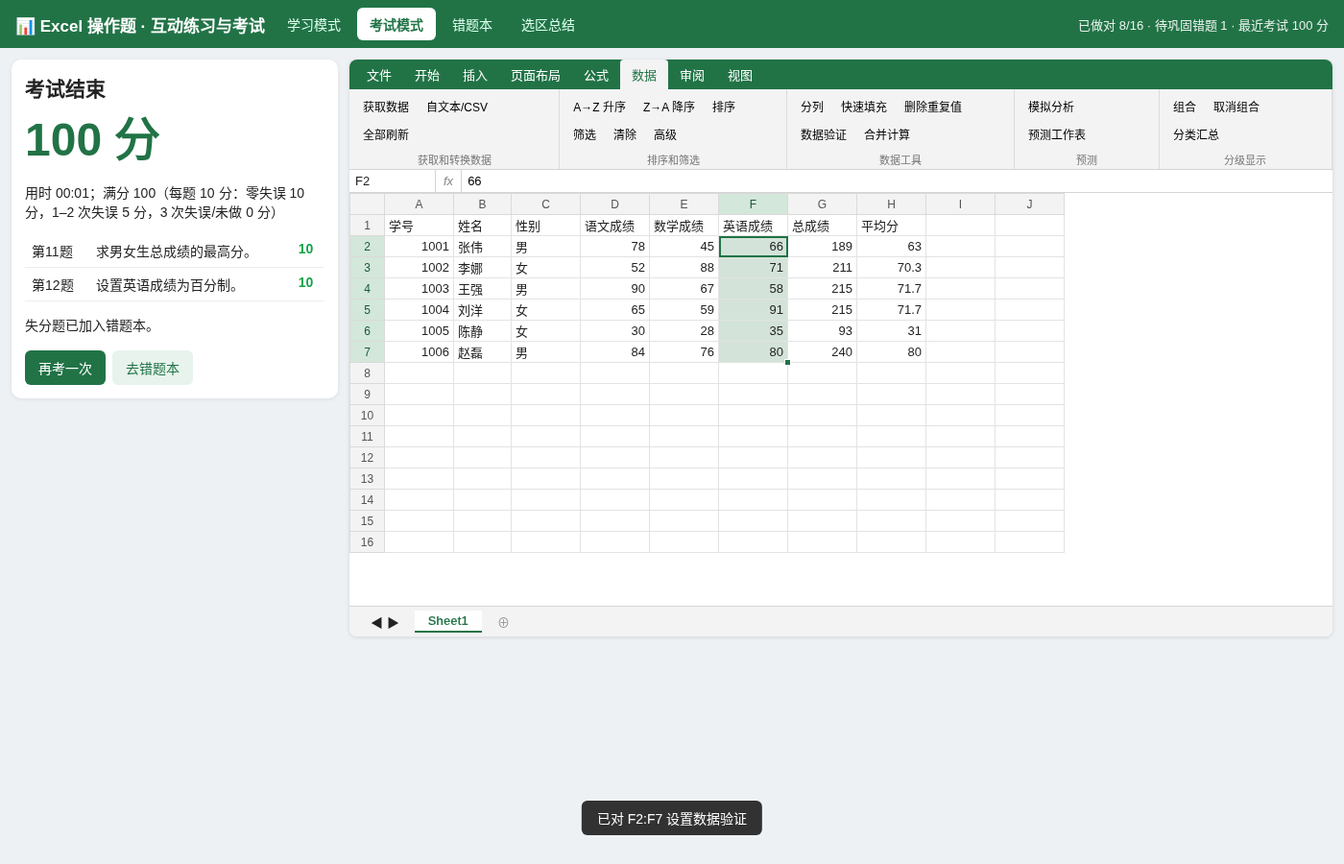
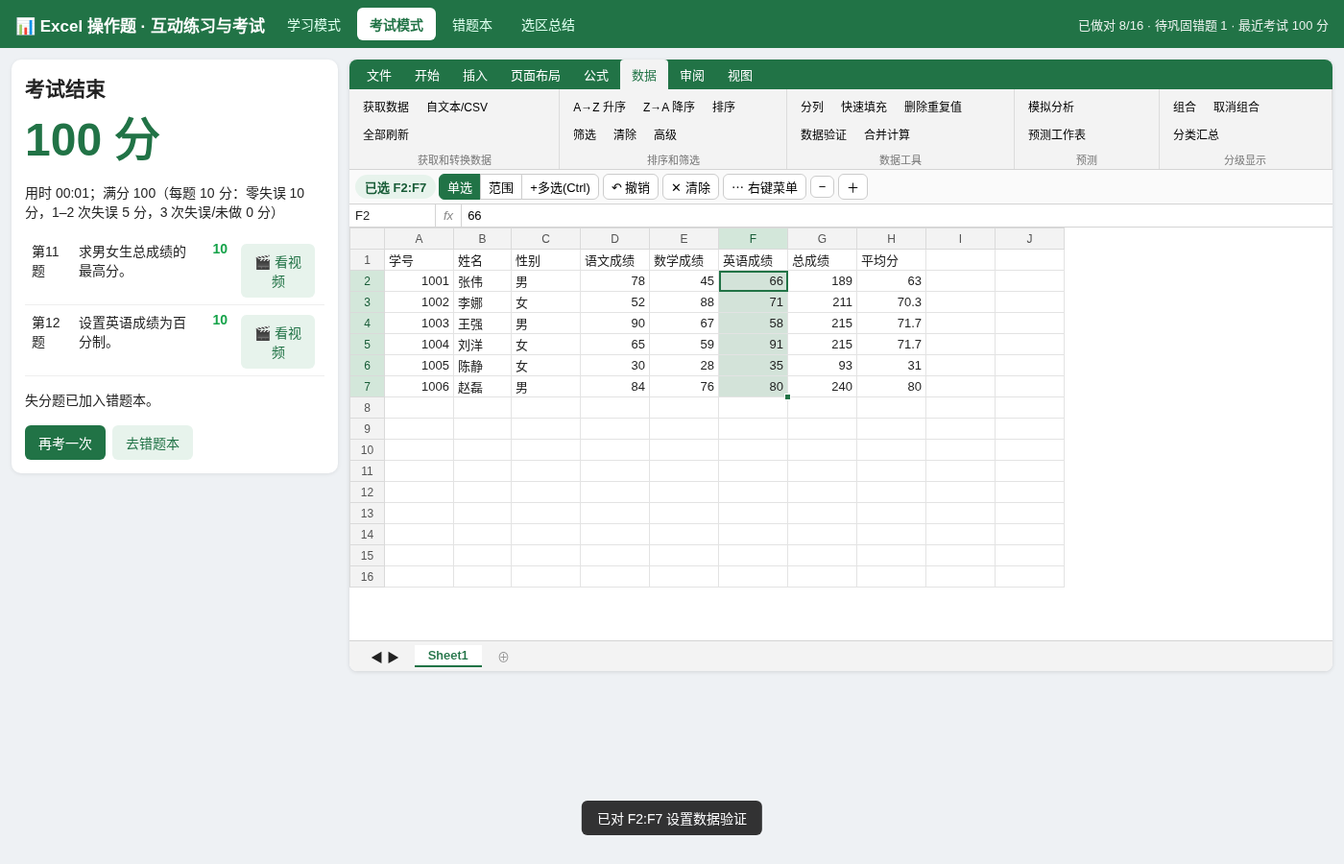
Mobile-friendly UI + per-question explainer videos

diff --git a/index.html b/index.html
@@ -1,4 +1,4 @@
-<!DOCTYPE html><html lang="zh-CN"><head><meta charset="utf-8"><meta name="viewport" content="width=device-width,initial-scale=1">
+<!DOCTYPE html><html lang="zh-CN"><head><meta charset="utf-8"><meta name="viewport" content="width=device-width,initial-scale=1,viewport-fit=cover"><meta name="theme-color" content="#217346"><link rel="manifest" href="manifest.json"><link rel="icon" href="icon-192.png"><link rel="apple-touch-icon" href="icon-192.png"><meta name="apple-mobile-web-app-capable" content="yes"><meta name="mobile-web-app-capable" content="yes"><meta name="apple-mobile-web-app-title" content="Excel操作题">
 <title>Excel 操作题 · 互动练习与考试（第4章）</title>
 <style>
 :root{--g:#217346;--g2:#185c37;--bd:#d4d4d4;--ok:#16a34a;--bad:#dc2626}
@@ -63,18 +63,60 @@ header b{font-size:17px}header nav{display:flex;gap:4px;flex-wrap:wrap}
 table.t{border-collapse:collapse;width:100%}table.t td,table.t th{border-bottom:1px solid #eee;padding:7px;text-align:left;vertical-align:top}
 .opt{display:block;width:100%;text-align:left;padding:10px;margin:6px 0;border:2px solid #e2e2e2;background:#fff;border-radius:8px;cursor:pointer;font-size:14px}.opt.ok{border-color:var(--ok);background:#effaf3}.opt.bad{border-color:var(--bad);background:#fdecec}
 .big{font-size:48px;font-weight:800;color:var(--g)}
+
+#grid tr:first-child th{position:sticky;top:0;z-index:2}#grid th[data-row]{position:sticky;left:0;z-index:1}#grid th.corner{position:sticky;left:0;top:0;z-index:3}
+#gw{overscroll-behavior:contain;-webkit-overflow-scrolling:touch}#gw.tsel{touch-action:none}#fh{touch-action:none}
+#grid{zoom:var(--z,1)}body{-webkit-touch-callout:none;touch-action:manipulation}
+#selbar{display:flex;gap:4px;align-items:center;padding:4px 6px;border-bottom:1px solid var(--bd);background:#fafafa;overflow-x:auto;white-space:nowrap;font-size:13px}
+#selbar button{border:1px solid #ccc;background:#fff;border-radius:6px;padding:3px 8px;font-size:13px;cursor:pointer;flex:none}
+#chip{background:#e7f3ec;color:var(--g2);border-radius:99px;padding:3px 10px;font-weight:700;flex:none}
+.seg{display:inline-flex;flex:none}.seg button{border-radius:0!important;margin-left:-1px}.seg button:first-child{border-radius:6px 0 0 6px!important}.seg button:last-child{border-radius:0 6px 6px 0!important}.seg button.on{background:var(--g);color:#fff;border-color:var(--g)}
+#mbar,.mob{display:none}
+@media(max-width:760px){
+ body{font-size:15px;padding-bottom:calc(118px + env(safe-area-inset-bottom))}
+ header{padding:6px 10px;padding-top:calc(6px + env(safe-area-inset-top));gap:4px;flex-wrap:nowrap;flex-direction:column;align-items:stretch}
+ header b{font-size:15px}header nav{flex-wrap:nowrap;overflow-x:auto}.mt{padding:10px 12px;min-height:44px;flex:none;font-size:15px}
+ #stat{margin:0;font-size:12px}
+ #wrap{padding:6px;gap:6px;padding-left:max(6px,env(safe-area-inset-left));padding-right:max(6px,env(safe-area-inset-right))}
+ .card{padding:10px}#qtext{font-size:16px;margin:4px 0}.mob{display:inline-block}
+ #qp.col .cx{display:none}
+ .tabs{flex-wrap:nowrap;overflow-x:auto;padding:0}.tabs span{padding:12px 14px;min-height:44px;flex:none;font-size:14px;white-space:nowrap}
+ #ribbon{min-height:0}.grp .bs{flex-wrap:nowrap;max-width:none}.rb{min-height:44px;min-width:44px;font-size:14px;padding:6px 10px}
+ #selbar button{min-height:40px;min-width:40px;font-size:14px}#chip{font-size:14px;padding:8px 10px}
+ #gw{height:46vh}#grid td,#grid th{height:30px;font-size:14px}.farrow{width:22px;height:22px;line-height:20px;font-size:11px;top:3px}
+ #fh{width:18px;height:18px;margin:-6px 0 0 -6px;border-radius:50%;border:2px solid #fff;box-shadow:0 0 3px #000}
+ #chart{left:10px;top:150px;transform:scale(.9);transform-origin:0 0}
+ .fx input,.sheets input,.db input,.db select{font-size:16px!important}.sheets span{padding:10px 14px}
+ .menu{left:0!important;right:0;top:auto!important;bottom:0;width:100%;min-width:0;max-height:62vh;border-radius:14px 14px 0 0;padding-bottom:env(safe-area-inset-bottom);font-size:15px;box-shadow:0 -4px 20px rgba(0,0,0,.25)}
+ .menu .mi{min-height:44px;padding:10px 16px}.menu.grid{grid-template-columns:repeat(5,1fr);max-width:none}.menu.grid .mi i{width:100%}
+ #ov{align-items:flex-end;background:rgba(0,0,0,.3)}
+ .dlg{min-width:0;width:100%;max-width:100%;border-radius:14px 14px 0 0;max-height:88vh;overflow:auto;padding-bottom:env(safe-area-inset-bottom);font-size:15px}
+ .dt{padding:14px;font-size:16px}.dt span{padding:0 8px;font-size:20px}.db input[type=text],.db select{width:100%;min-height:42px}
+ .db label{display:block;min-height:36px;line-height:36px}.db input[type=checkbox]{width:20px;height:20px;vertical-align:middle}
+ .df{display:flex;gap:8px}.df button{flex:1;min-height:46px;margin:0;font-size:16px}.srow{flex-wrap:wrap;gap:4px}.srow span{width:auto!important}
+ .dtabs{overflow-x:auto}.dtabs span{padding:10px 12px;flex:none}.sw{width:36px;height:36px}
+ #qlist button{width:40px;height:40px}.btn{min-height:44px}.opt{min-height:48px}
+ #mbar{display:block;position:fixed;left:0;right:0;bottom:0;background:#fff;border-top:1px solid #ccc;box-shadow:0 -2px 10px rgba(0,0,0,.12);z-index:80;padding:6px 8px calc(6px + env(safe-area-inset-bottom))}
+ #mfb{font-size:13px;line-height:1.5;max-height:64px;overflow:auto;padding:4px 6px;border-radius:6px;background:#fff8e6}#mfb.ok{background:#effaf3;color:#14532d}#mfb.bad{background:#fdecec;color:#7f1d1d}
+ .mbb{display:flex;gap:6px;margin-top:6px}.mbb .btn{flex:1;margin:0}.mbb .red{background:#b91c1c}
+ #toast{bottom:140px}
+}
+#vov{position:fixed;inset:0;background:rgba(0,0,0,.6);display:none;align-items:center;justify-content:center;z-index:150;padding:env(safe-area-inset-top) 8px env(safe-area-inset-bottom)}
+#vov .vb{background:#fff;border-radius:12px;max-width:760px;width:100%;padding:12px;max-height:96vh;overflow:auto}#vov video{width:100%;max-height:62vh;background:#000;border-radius:8px}
+#vov h3{margin:0 0 4px;font-size:16px}#vov .vt{font-size:13px;color:#666;margin-bottom:8px}#vov .vbtn{display:flex;gap:8px;margin-top:8px}#vov .vbtn .btn{flex:1;min-height:46px;margin:0}
+#selbar button.on{background:#217346!important;color:#fff!important;border-color:#217346}
 </style></head><body>
 <header><b>📊 Excel 操作题 · 互动练习与考试</b><nav><button class="mt" data-m="learn">学习模式</button><button class="mt" data-m="exam">考试模式</button><button class="mt" data-m="wrong">错题本</button><button class="mt" data-m="area">选区总结</button></nav><span id="stat"></span></header>
 <div id="wrap">
 <div><div class="card" id="qp"></div></div>
 <div id="xl">
  <div class="tabs" id="tabs"></div><div id="ribbon"></div>
- <div class="fx"><div id="nb">A1</div><i>fx</i><input id="fxi" placeholder="在此输入内容或公式，按 Enter 确认"></div>
+ <div id="selbar"><span id="chip">已选 A1</span><span class="seg"><button data-sm="single" class="on">单选</button><button data-sm="range">范围</button><button data-sm="multi">+多选(Ctrl)</button></span><button id="sundo" title="撤销选区">↶ 撤销</button><button id="sclr" title="清除选区">✕ 清除</button><button id="ctxb">⋯ 右键菜单</button><button id="zo">−</button><button id="zi">＋</button></div><div class="fx"><div id="nb">A1</div><i>fx</i><input id="fxi" placeholder="在此输入内容或公式，按 Enter 确认"></div>
  <div id="gw"><table id="grid"></table><div id="fh"></div><div id="chart" style="display:none"></div></div>
  <div class="sheets"><span>◀ ▶</span><span class="on" id="stab">Sheet1</span><span style="color:#999">⊕</span></div>
 </div></div>
 <div id="view2"></div>
-<div id="ov"></div><div id="toast"></div>
+<div id="vov"></div><div id="mbar"></div><div id="ov"></div><div id="toast"></div>
 <script>
 /* ===== 基础 ===== */
 const COLS='ABCDEFGHIJ'.split(''),NC=10,NR=16;const L=c=>COLS[c-1],AD=(r,c)=>L(c)+r;
@@ -136,12 +178,18 @@ const QS=[
 {id:16,k:'4.6 迷你图',q:'设置迷你图颜色为紫色。',a:'选中 G1:G7，单击迷你图工具-迷你图选项卡，设置迷你图颜色为紫色。',sheet:()=>{const s=base({noG:1,g1:'迷你图'});for(let r=2;r<=7;r++)s.sparks[r+',7']={src:r,color:'#376092'};return s},
  paths:[[{c:'sparkColor',need:['G1:G7','G2:G7'],v:'紫色',t:'选中 G2:G7（含迷你图的单元格）→ 迷你图选项卡 → 迷你图颜色 ▾ → 紫色'}]]}];
 function sortChk(v,want){if(!v.hdr)return '数据包含列标题，应勾选「数据包含标题」';for(let i=0;i<want.length;i++){const k=v.keys[i],w=want[i],nm=i?'次要关键字':'主要关键字';if(!k||k[0]!=w[0])return `${nm}应为「${w[0]}」`;if(k[1]!=w[1])return `${nm}「${w[0]}」的次序应为「${w[1]}」`}if(v.keys.length>want.length)return '条件多了，删除多余的次要关键字';return 0}
+/* ===== 讲解视频（链接 zsb-excel-videos 站点，不复制文件） ===== */
+const VBASE='https://bernardshilohjazlene4049-crypto.github.io/zsb-excel-videos/videos/';
+const VID={1:['q05','重命名工作表'],2:['q14','单元格颜色（填充颜色）'],3:['q12','设置单元格格式（通用题型，含合并后居中）'],4:['q15','行高 / 列宽'],5:['q17','套用表格格式'],6:['q16','单元格样式'],7:['q18','条件格式'],8:['q20','输入公式或函数并填充'],9:['q21','单字段或多字段排序'],10:['q22','自动筛选'],11:['q23','分类汇总（第 1 步排序，第 2 步汇总）'],12:['q24','数据验证'],13:['q25','插入图表'],14:['q26','修饰图表'],15:['q27','插入迷你图'],16:['q28','修饰迷你图']};
+function showVideo(id,pre){const o=$('#vov'),v=VID[id],q=QS[id-1];
+ o.innerHTML=`<div class="vb"><h3>🎬 先看讲解 · 第 ${id} 题</h3><div class="vt">${q.q}<br>视频：${v?v[1]+'（'+v[0]+'）':''}</div>${v?`<video id="vid" controls playsinline webkit-playsinline preload="metadata" src="${VBASE+v[0]}.mp4"></video>`:'<p style="padding:30px;text-align:center;color:#888">暂无视频</p>'}<div class="vbtn"><button class="btn" id="vgo">${pre?'我看完了，去操作 →':'关闭视频'}</button></div></div>`;
+ o.style.display='flex';const close=()=>{const vd=$('#vid');if(vd)vd.pause();o.style.display='none';o.innerHTML='';if(pre)toast('开始操作：'+q.q)};$('#vgo').onclick=close;const vd=$('#vid');if(vd){vd.onended=close;vd.onerror=()=>{const t=o.querySelector('.vt');if(t)t.innerHTML+='<br><span style="color:#dc2626">视频加载失败，可直接去操作。</span>'}}}
 /* ===== 进度 ===== */
 const KEY='xlops_v1';let PG=JSON.parse(localStorage.getItem(KEY)||'null')||{done:{},wrong:{},exams:[],area:{}};
 const save=()=>{localStorage.setItem(KEY,JSON.stringify(PG));stat()};
 function stat(){const w=Object.values(PG.wrong).filter(x=>!x.m).length;$('#stat').textContent=`已做对 ${Object.keys(PG.done).length}/16 · 待巩固错题 ${w}`+(PG.exams.length?` · 最近考试 ${PG.exams[PG.exams.length-1].s} 分`:'')}
 /* ===== 判题引擎 ===== */
-function startQ(id){const q=QS[id-1];S=q.sheet?q.sheet():base();sel=[{r1:1,c1:1,r2:1,c2:1}];E={q,paths:q.paths.map(s=>({s,i:0,alive:true})),mist:0,done:false,gave:false,fail:false};curTab='开始';closeAll();$('#stab').textContent='';renderAll();renderQ()}
+function startQ(id){if((mode=='learn'||mode=='wrong')&&!localStorage.getItem('xlops_novid'))setTimeout(()=>showVideo(id,true),0);$('#qp').classList.add('col');tapA=null;selHist=[];const q=QS[id-1];S=q.sheet?q.sheet():base();sel=[{r1:1,c1:1,r2:1,c2:1}];E={q,paths:q.paths.map(s=>({s,i:0,alive:true})),mist:0,done:false,gave:false,fail:false};curTab='开始';closeAll();$('#stab').textContent='';renderAll();renderQ()}
 function act(a){if(!E||E.done)return false;const s=selStr();let selErr=null,valErr=null;const ok=[];
  for(const p of E.paths){if(!p.alive)continue;const st=p.s[p.i];if(st.c!==a.c)continue;
   if(st.need&&!st.need.includes(s)){selErr=selErr||st;continue}
@@ -156,7 +204,7 @@ function act(a){if(!E||E.done)return false;const s=selStr();let selErr=null,valE
 function rewind(){if(!E||E.done)return;E.paths.forEach(p=>{if(p.alive&&p.i>0)p.i--});renderQ(true)}
 function hintStep(){const p=E.paths.find(p=>p.alive);return p&&p.s[p.i]}
 function run(c,v){if(!act({c,v}))return false;H[c]&&H[c](v);renderAll();return true}
-function fb(cls,t){const e=$('#fb');if(!e)return;e.className=cls;e.innerHTML=t}
+function fb(cls,t){const e=$('#fb');if(!e)return;e.className=cls;e.innerHTML=t;mbar()}
 /* ===== 会话：学习/考试/错题本 ===== */
 function startSession(m,list){mode=m;clearInterval(window._ti);SS={mode:m,list:[...list],pend:[],res:[],n:0,total:list.length,t0:Date.now()};
  if(m=='exam'){SS.end=Date.now()+20*60e3;window._ti=setInterval(()=>{const r=SS.end-Date.now();const t=$('#timer');if(t)t.textContent=fmtT(r);if(r<=0)endSession()},500)}nextQ()}
@@ -170,10 +218,10 @@ function finishQ(gave){const id=E.q.id,ok=!E.fail&&!E.gave&&E.mist==0;
  else{if(ok){PG.done[id]=1;if(PG.wrong[id]&&(SS.mode=='wrong'||SS.cur.re))PG.wrong[id].m=true}
   else{PG.wrong[id]={cnt:((PG.wrong[id]||{}).cnt||0)+1,m:false};SS.pend.push({id,w:3})}save()}
  E.done=true;renderQ();showAns(ok)}
-function showAns(ok){const a=$('#ans');if(!a)return;a.style.display='block';a.innerHTML=`<b>${ok?'🎉 一次做对！':(SS.mode=='exam'?'本题已记录':'已加入错题本，过 3 题后会再考你')}</b><br><b>📘 标准答案（讲义原文）：</b>${E.q.a}${E.q.note?`<br><b>📝 注：</b>${E.q.note}`:''}`;$('#nextb').disabled=false;$('#nextb').textContent=SS.mode=='exam'?'下一题 →':'下一题 →'}
-function endSession(){clearInterval(window._ti);if(SS.mode=='exam'){if(SS.cur&&E&&!E.done)recordExam(0);SS.list.forEach(id=>SS.res.push({id,sc:0,mist:'-',skip:1}));SS.list.forEach(id=>{PG.wrong[id]={cnt:((PG.wrong[id]||{}).cnt||0)+1,m:false}});SS.list=[];
+function showAns(ok){const a=$('#ans');if(!a)return;$('#qp').classList.remove('col');a.style.display='block';a.innerHTML=`<b>${ok?'🎉 一次做对！':(SS.mode=='exam'?'本题已记录':'已加入错题本，过 3 题后会再考你')}</b><br><b>📘 标准答案（讲义原文）：</b>${E.q.a}${E.q.note?`<br><b>📝 注：</b>${E.q.note}`:''}<br><button class="btn gh" id="vre">🎬 看视频（重看讲解）</button>`;$('#vre').onclick=()=>showVideo(E?E.q.id:SS.cur.id,false);$('#nextb').disabled=false;$('#nextb').textContent='下一题 →';mbar()}
+function endSession(){clearInterval(window._ti);setTimeout(mbar,0);if(SS.mode=='exam'){if(SS.cur&&E&&!E.done)recordExam(0);SS.list.forEach(id=>SS.res.push({id,sc:0,mist:'-',skip:1}));SS.list.forEach(id=>{PG.wrong[id]={cnt:((PG.wrong[id]||{}).cnt||0)+1,m:false}});SS.list=[];
  const tot=Math.round(SS.res.reduce((a,b)=>a+b.sc,0)/(SS.total*10)*100);PG.exams.push({s:tot,t:Date.now()});save();E=null;
- $('#qp').innerHTML=`<h2 style="margin:0">考试结束</h2><div class="big">${tot} 分</div><p class="tip">用时 ${fmtT(Date.now()-SS.t0)}；满分 100（每题 10 分：零失误 10 分，1–2 次失误 5 分，3 次失误/未做 0 分）</p><table class="t">${SS.res.map(r=>`<tr><td>第${r.id}题</td><td>${QS[r.id-1].q}</td><td><b style="color:${r.sc==10?'#16a34a':r.sc?'#a16207':'#dc2626'}">${r.sc}</b></td></tr>`).join('')}</table><p>失分题已加入错题本。</p><button class="btn" id="again">再考一次</button> <button class="btn gh" onclick="setMode('wrong')">去错题本</button>`;$('#again').onclick=()=>setMode('exam');return}
+ $('#qp').innerHTML=`<h2 style="margin:0">考试结束</h2><div class="big">${tot} 分</div><p class="tip">用时 ${fmtT(Date.now()-SS.t0)}；满分 100（每题 10 分：零失误 10 分，1–2 次失误 5 分，3 次失误/未做 0 分）</p><table class="t">${SS.res.map(r=>`<tr><td>第${r.id}题</td><td>${QS[r.id-1].q}</td><td><b style="color:${r.sc==10?'#16a34a':r.sc?'#a16207':'#dc2626'}">${r.sc}</b></td><td><button class="btn gh" onclick="showVideo(${r.id},false)">🎬 看视频</button></td></tr>`).join('')}</table><p>失分题已加入错题本。</p><button class="btn" id="again">再考一次</button> <button class="btn gh" onclick="setMode('wrong')">去错题本</button>`;$('#again').onclick=()=>setMode('exam');return}
  $('#qp').innerHTML=`<h3>✅ 本轮完成</h3><p>${SS.mode=='wrong'?'错题都已重做正确！':'16 道题都练完了，错的题也已重做正确。'}</p><button class="btn" onclick="setMode('exam')">去考试</button> <button class="btn gh" onclick="setMode('learn')">再练一遍</button>`;E=null}
 /* ===== 左侧题目面板 ===== */
 function renderQ(partial){if(!E)return;const q=E.q,learn=mode!='exam';
@@ -181,11 +229,12 @@ function renderQ(partial){if(!E)return;const q=E.q,learn=mode!='exam';
  const qlist=learn&&SS.mode=='learn'?`<div id="qlist">${QS.map(x=>`<button class="${PG.done[x.id]?'d':''} ${PG.wrong[x.id]&&!PG.wrong[x.id].m?'w':''} ${x.id==q.id?'c':''}" data-j="${x.id}">${x.id}</button>`).join('')}</div><div class="tip" style="font-size:12px;color:#888">绿=做对过 红=待巩固 · 点数字可跳题</div>`:'';
  $('#qp').innerHTML=`<div style="display:flex;justify-content:space-between;align-items:center"><span><span class="tag">${{learn:'学习模式',exam:'考试模式',wrong:'错题本重练'}[mode]}</span>${SS.cur&&SS.cur.re?'<span class="tag r">🔁 错题重考</span>':''}</span>${mode=='exam'?`<span id="timer">${fmtT(SS.end-Date.now())}</span>`:''}</div>
  <div style="font-size:12px;color:#888;margin-top:6px">${mode=='exam'?`第 ${SS.n} / ${SS.total} 题`:`第 ${q.id} 题`} · <span class="tag y">${q.k}</span></div>
- <div id="qtext">${q.id}. ${q.q}</div>
+ <div id="qtext">${q.id}. ${q.q} <button class="btn gh mob" id="qtog" style="min-height:32px;padding:2px 10px;font-size:13px">详情</button></div><div class="cx">
  ${learn?`<div style="font-size:13px;font-weight:600">操作步骤提示</div><ul class="steps" id="steps">${stepsHTML()}</ul>`:'<div class="tip" style="font-size:12px;color:#888">考试模式：无提示，按真实 Excel 操作。失误 3 次本题判 0 分。</div>'}
  <div id="fb"></div>
- <div><button class="btn gh" id="redo">↺ 重做本题</button>${learn?'<button class="btn gh" id="give">看答案</button>':''}<button class="btn" id="nextb" ${mode=='exam'?'':'disabled'}>${mode=='exam'?'跳过 →':'下一题 →'}</button>${mode=='exam'?'<button class="btn" style="background:#b91c1c" id="sub">交卷</button>':''}</div>
- <div id="ans"></div>${qlist}<div style="font-size:12px;color:#888;margin-top:10px;line-height:1.6">操作说明：拖动鼠标选区，Ctrl+拖动可多选；右键单元格/行号/列标/工作表标签弹出菜单；选中单元格后直接键入内容按 Enter。</div>`;
+ <div><button class="btn gh" id="redo">↺ 重做本题</button><button class="btn gh" id="vwatch">🎬 看视频</button>${learn?'<button class="btn gh" id="give">看答案</button>':''}<button class="btn" id="nextb" ${mode=='exam'?'':'disabled'}>${mode=='exam'?'跳过 →':'下一题 →'}</button>${mode=='exam'?'<button class="btn" style="background:#b91c1c" id="sub">交卷</button>':''}</div>
+ <div id="ans"></div>${qlist}<div style="font-size:12px;color:#888;margin-top:10px;line-height:1.6">操作说明：拖动鼠标选区，Ctrl+拖动可多选；右键单元格/行号/列标/工作表标签弹出菜单；选中单元格后直接键入内容按 Enter。<br>📱 手机：选「范围」后点起点再点终点（或直接拖动）；「+多选」相当于按住 Ctrl；长按或点「⋯ 右键菜单」代替右键。</div></div>`;
+ $('#vwatch').onclick=()=>showVideo(q.id,false);mbar();$('#qtog').onclick=()=>$('#qp').classList.toggle('col');
  $('#redo').onclick=()=>{if(mode=='exam'&&E.done)return;const m=E.mist;startQ(q.id);E.mist=m};
  if($('#give'))$('#give').onclick=()=>{if(E.done)return;E.gave=true;E.done=true;finishQ(true)};
  $('#nextb').onclick=()=>{if(mode!='exam'&&!E.done)return;nextQ()};
@@ -228,12 +277,12 @@ const MENUS={fillColor:()=>[{hd:'标准色'},...cl('fillColor')],fontColor:()=>c
 const tsw=(i,d)=>['#9bc2e6','#f4b084','#c9c9c9','#ffd966','#8ea9db','#a9d08e'][(i-1)%6]+(d?'':'');
 const acc=(i,p)=>({1:['#d9e1f2','#b4c6e7','#8ea9db'],2:['#fce4d6','#f8cbad','#f4b084'],3:['#ededed','#dbdbdb','#c9c9c9'],4:['#fff2cc','#ffe699','#ffd966'],5:['#ddebf7','#bdd7ee','#9bc2e6'],6:['#e2efda','#c6e0b4','#a9d08e']})[i][p/20-1];
 function closeAll(lv=0){document.querySelectorAll('.menu').forEach(e=>{if(+e.dataset.l>=lv)e.remove()})}
-function menu(x0,y0,items,lv=0,grid){closeAll(lv);const mm=document.createElement('div');mm.className='menu'+(grid?' grid':'');mm.dataset.l=lv;
+function menu(x0,y0,items,lv=0,grid){closeAll(lv);const mm=document.createElement('div');mm.className='menu'+(grid?' grid':'');mm.dataset.l=lv;mm.style.zIndex=100+lv;if(lv>0&&MOB()){const bk=document.createElement('div');bk.className='mi';bk.textContent='‹ 返回';bk.style.color='#217346';bk.onclick=()=>closeAll(lv);mm.appendChild(bk)}
  items.forEach(it=>{const d=document.createElement('div');if(it.sep){d.className='sep'}else if(it.hd){d.className='hd';d.textContent=it.hd}else{d.className='mi';d.innerHTML=(it.sw!==undefined?`<i style="background:${it.sw}"></i>`:'')+(grid&&it.g?'':esc(it.t))+(it.sub?' <span style="margin-left:auto">▸</span>':'');d.title=it.t;d.dataset.t=it.t;
   const open=()=>{const r=d.getBoundingClientRect();menu(r.right,r.top,it.sub,lv+1)};
-  if(it.sub){d.onmouseenter=open;d.onclick=open}else{d.onmouseenter=()=>closeAll(lv+1);d.onclick=()=>{closeAll();it.fn?it.fn():run(it.cmd,it.v)}}}mm.appendChild(d)});
+  const HV=matchMedia('(hover:hover)').matches&&!MOB();if(it.sub){if(HV)d.onmouseenter=open;d.onclick=e=>{e.stopPropagation();open()}}else{if(HV)d.onmouseenter=()=>closeAll(lv+1);d.onclick=()=>{closeAll();it.fn?it.fn():run(it.cmd,it.v)}}}mm.appendChild(d)});
  document.body.appendChild(mm);const r=mm.getBoundingClientRect();mm.style.left=Math.max(0,Math.min(x0,innerWidth-r.width-4))+'px';mm.style.top=Math.max(0,Math.min(y0,innerHeight-r.height-4))+'px'}
-document.addEventListener('mousedown',e=>{if(!e.target.closest('.menu')&&!e.target.closest('[data-menu]'))closeAll()});
+let lpAt=0,lpUp=0;const lpG=()=>lpAt&&lpUp>=lpAt&&Date.now()-lpUp<500;document.addEventListener('pointerup',()=>{if(lpAt&&lpUp<lpAt)lpUp=Date.now()},true);document.addEventListener('click',e=>{if(lpG()){lpAt=0;e.stopPropagation();e.preventDefault()}},true);document.addEventListener('mousedown',e=>{if(lpG())return;if(!e.target.closest('.menu')&&!e.target.closest('[data-menu]')&&!e.target.closest('.farrow')&&!e.target.closest('#ctxb'))closeAll()});
 /* ===== 对话框 ===== */
 let dlgFree=false;
 function dlg(title,html,onok,free){dlgFree=!!free;const o=$('#ov');o.innerHTML=`<div class="dlg"><div class="dt">${title}<span id="dx">×</span></div><div class="db">${html}</div><div class="df"><button id="dok">确定</button><button id="dcc">取消</button></div></div>`;o.style.display='flex';
@@ -308,7 +357,7 @@ function renderGrid(){let h='<colgroup><col style="width:36px">';for(let c=1;c<=
    let inner=esc(v);const sp=S.sparks[r+','+c];if(sp){const d=[4,5,6].map(cc=>+val(sp.src,cc)||0),mx=Math.max(...d,1);inner=`<svg width="100%" height="18" viewBox="0 0 60 18" preserveAspectRatio="none">${d.map((q,i)=>`<rect x="${6+i*18}" y="${18-q/mx*16}" width="12" height="${q/mx*16}" fill="${sp.color}"/>`).join('')}</svg>`}
    const fa=S.filter&&r==S.filter.a.r1&&c>=S.filter.a.c1&&c<=S.filter.a.c2?`<span class="farrow ${S.filter.conds[c]?'on':''}" data-fc="${c}">${S.filter.conds[c]?'⧩':'▼'}</span>`:'';
    h+=`<td data-r="${r}" data-c="${c}"${m?` colspan="${m.c2-m.c1+1}"`:''} class="${inSel(r,c)?'sel':''} ${sel[sel.length-1].r1==r&&sel[sel.length-1].c1==c?'act':''}" style="${st}">${inner}${fa}</td>`}h+='</tr>'}
- $('#grid').innerHTML=h;if(!$('#rn'))$('#stab').textContent=S.name;const a=sel[sel.length-1];$('#nb').textContent=AD(Math.min(a.r1,a.r2),Math.min(a.c1,a.c2));const cx=S.cells[Math.min(a.r1,a.r2)+','+Math.min(a.c1,a.c2)];if(document.activeElement!=$('#fxi'))$('#fxi').value=cx?(cx.f||cx.v):'';
+ $('#grid').innerHTML=h;if(!$('#rn'))$('#stab').textContent=S.name;$('#chip').textContent='已选 '+selStr()+(tapA?' · 再点终点':'');const a=sel[sel.length-1];$('#nb').textContent=AD(Math.min(a.r1,a.r2),Math.min(a.c1,a.c2));const cx=S.cells[Math.min(a.r1,a.r2)+','+Math.min(a.c1,a.c2)];if(document.activeElement!=$('#fxi'))$('#fxi').value=cx?(cx.f||cx.v):'';
  const la=norm(sel[sel.length-1]);const td=document.querySelector(`#grid td[data-r="${la.r2}"][data-c="${la.c2}"]`);const fh=$('#fh');if(td&&!la.row&&!la.col){const gw=$('#gw').getBoundingClientRect(),tr=td.getBoundingClientRect();fh.style.display='block';fh.style.left=(tr.right-gw.left+$('#gw').scrollLeft-4)+'px';fh.style.top=(tr.bottom-gw.top+$('#gw').scrollTop-4)+'px'}else fh.style.display='none';
  renderChart()}
 function renderChart(){const ch=$('#chart');if(!S.chart){ch.style.display='none';return}ch.style.display='block';ch.classList.toggle('on',!!S.chart.sel);const{labels,vals,type,lab}=S.chart;const tot=vals.reduce((a,b)=>a+b,0)||1;const pal=['#4472c4','#ed7d31','#a5a5a5','#ffc000','#5b9bd5','#70ad47'];
@@ -318,18 +367,45 @@ function renderChart(){const ch=$('#chart');if(!S.chart){ch.style.display='none'
   top+=`<path d="M${cx},${cy}L${p(a0)}A${rx},${ry} 0 ${lg} 1 ${p(a1)}Z" fill="${pal[i%6]}" stroke="#fff"/>`;
   if(lab&&lab!='无'){const am=(a0+a1)/2,k=lab=='数据标签外'?1.15:lab=='居中'?0.6:0.8;lb+=`<text x="${cx+rx*k*Math.cos(am)}" y="${cy+ry*k*Math.sin(am)+4}" font-size="11" text-anchor="middle" fill="${lab=='数据标签外'?'#333':'#fff'}" font-weight="700">${v}</text>`}a0=a1});
  ch.innerHTML=`<svg width="330" height="240"><text x="165" y="20" text-anchor="middle" font-size="14">总成绩</text>${s}${top}${lb}${labels.map((l,i)=>`<rect x="245" y="${50+i*20}" width="10" height="10" fill="${pal[i%6]}"/><text x="260" y="${59+i*20}" font-size="11">${esc(l)}</text>`).join('')}</svg>`}
-function renderAll(){renderGrid();renderRibbon()}
-$('#chart').onmousedown=e=>{e.stopPropagation();S.chart.sel=true;curTab='图表设计';renderAll()};
+function renderAll(){renderGrid();renderRibbon();mbar()}
+$('#chart').onpointerdown=e=>{e.stopPropagation();S.chart.sel=true;curTab='图表设计';renderAll()};
 /* ===== 鼠标：选区 / 填充柄 / 右键 ===== */
 let drag=null,fdrag=null;
 const cellOf=e=>{const td=e.target.closest('#grid td');return td?{r:+td.dataset.r,c:+td.dataset.c}:null};
-$('#grid').addEventListener('mousedown',e=>{if(e.button!==0)return;if(e.target.classList.contains('farrow')){e.stopPropagation();const r=e.target.getBoundingClientRect();filterPop(+e.target.dataset.fc,r.left,r.bottom);return}
- if(S.chart)S.chart.sel=false;const th=e.target.closest('th');let a;
- if(th&&th.dataset.row){const r=+th.dataset.row;a={r1:r,r2:r,c1:1,c2:NC,row:true}}else if(th&&th.dataset.col){const c=+th.dataset.col;a={r1:1,r2:NR,c1:c,c2:c,col:true}}else{const p=cellOf(e);if(!p)return;a={r1:p.r,c1:p.c,r2:p.r,c2:p.c};drag=true}
- sel=e.ctrlKey||e.metaKey?[...sel,a]:[a];renderAll()});
-$('#grid').addEventListener('mouseover',e=>{const p=cellOf(e);if(!p)return;if(drag){const a=sel[sel.length-1];a.r2=p.r;a.c2=p.c;renderGrid()}if(fdrag){fdrag.r=Math.max(fdrag.r0,p.r);document.querySelectorAll('#grid td').forEach(t=>t.style.outline=+t.dataset.c==fdrag.c&&+t.dataset.r>fdrag.r0&&+t.dataset.r<=fdrag.r?'1px dashed #217346':'')}});
-document.addEventListener('mouseup',e=>{if(drag){drag=null;renderAll()}if(fdrag){const f=fdrag;fdrag=null;if(f.r>f.r0)run('fill',`${L(f.c)}${f.r0}:${L(f.c)}${f.r}`);else renderGrid()}});
-$('#fh').addEventListener('mousedown',e=>{e.stopPropagation();e.preventDefault();const a=norm(sel[sel.length-1]);fdrag={c:a.c2,r0:a.r2,r:a.r2}});
+const MOB=()=>matchMedia('(max-width:760px)').matches;
+let smode='single',tapA=null,selHist=[],lp=null,lastCtx=null,moved=false;
+const tdAt=(x,y)=>{const el=document.elementFromPoint(x,y);const td=el&&el.closest&&el.closest('#grid td');return td?{r:+td.dataset.r,c:+td.dataset.c}:null};
+const pushSel=()=>{selHist.push(JSON.stringify(sel));if(selHist.length>30)selHist.shift()};
+function setSM(m){smode=m;tapA=null;document.querySelectorAll('#selbar [data-sm]').forEach(b=>b.classList.toggle('on',b.dataset.sm==m));$('#gw').classList.toggle('tsel',m!='single');renderGrid()}
+document.querySelectorAll('#selbar [data-sm]').forEach(b=>b.onclick=()=>setSM(b.dataset.sm));
+$('#sundo').onclick=()=>{const h=selHist.pop();if(h){sel=JSON.parse(h);tapA=null;renderAll()}else toast('没有可撤销的选区')};
+$('#sclr').onclick=()=>{pushSel();sel=[{r1:1,c1:1,r2:1,c2:1}];tapA=null;renderAll()};
+let zf=1;$('#zo').onclick=()=>{zf=Math.max(.6,zf-.1);$('#grid').style.setProperty('--z',zf);renderGrid()};$('#zi').onclick=()=>{zf=Math.min(1.6,zf+.1);$('#grid').style.setProperty('--z',zf);renderGrid()};
+function fireCtx(el,x,y){el.dispatchEvent(new MouseEvent('contextmenu',{bubbles:true,cancelable:true,clientX:x,clientY:y}))}
+$('#ctxb').onclick=()=>{let el;if(lastCtx&&lastCtx.isConnected)el=lastCtx;else{const a=sel[sel.length-1];el=a.row?document.querySelector(`#grid th[data-row="${a.r1}"]`):a.col?document.querySelector(`#grid th[data-col="${a.c1}"]`):document.querySelector(`#grid td[data-r="${Math.min(a.r1,a.r2)}"][data-c="${Math.min(a.c1,a.c2)}"]`)}if(!el)return;const r=el.getBoundingClientRect();fireCtx(el,r.left+r.width/2,r.top+r.height/2)};
+/* 长按 = 右键 */
+document.addEventListener('pointerdown',e=>{if(e.pointerType=='mouse')return;const t=e.target.closest&&e.target.closest('#grid td,#grid th,#stab');if(!t)return;clearTimeout(lp&&lp.t);const x=e.clientX,y=e.clientY;lp={x,y,t:setTimeout(()=>{lp=null;drag=null;fdrag=null;lpAt=Date.now();const el=document.elementFromPoint(x,y)||t;fireCtx(el.closest('#grid td,#grid th,#stab')||el,x,y);if(navigator.vibrate)navigator.vibrate(20)},550)}},true);
+$('#stab').addEventListener('pointerdown',()=>{lastCtx=$('#stab')});
+$('#grid').addEventListener('click',e=>{if(e.target.classList.contains('farrow')){const r=e.target.getBoundingClientRect();filterPop(+e.target.dataset.fc,r.left,r.bottom)}});
+$('#grid').addEventListener('pointerdown',e=>{if(e.pointerType=='mouse'&&e.button!==0)return;if(e.target.classList.contains('farrow')){e.stopPropagation();return}
+ if(e.target.hasPointerCapture&&e.target.hasPointerCapture(e.pointerId))e.target.releasePointerCapture(e.pointerId);
+ lastCtx=null;if(S.chart)S.chart.sel=false;const th=e.target.closest('th');let a;const touch=e.pointerType!='mouse';const multi=e.ctrlKey||e.metaKey||smode=='multi';pushSel();moved=false;
+ if(th&&th.dataset.row){const r=+th.dataset.row;a={r1:r,r2:r,c1:1,c2:NC,row:true};tapA=null}else if(th&&th.dataset.col){const c=+th.dataset.col;a={r1:1,r2:NR,c1:c,c2:c,col:true};tapA=null}else{const p=cellOf(e);if(!p)return;
+  if(touch&&smode!='single'&&tapA){const la=sel[sel.length-1];la.r2=p.r;la.c2=p.c;tapA=null;selHist.pop();renderAll();return}
+  a={r1:p.r,c1:p.c,r2:p.r,c2:p.c};if(!touch||smode!='single')drag=true;if(touch&&smode!='single')tapA=p}
+ sel=multi&&!(sel.length==1&&sel[0].r1==1&&sel[0].c1==1&&sel[0].r2==1&&sel[0].c2==1&&smode=='multi'&&!e.ctrlKey)?[...sel,a]:[a];if(multi&&sel.length>1&&smode=='multi'&&!e.ctrlKey&&false)sel=[a];renderAll()});
+document.addEventListener('pointermove',e=>{if(lp&&Math.hypot(e.clientX-lp.x,e.clientY-lp.y)>10){clearTimeout(lp.t);lp=null}
+ if(!drag&&!fdrag)return;const p=tdAt(e.clientX,e.clientY);if(!p)return;
+ if(drag){const a=sel[sel.length-1];if(a.r2!=p.r||a.c2!=p.c){a.r2=p.r;a.c2=p.c;moved=true;if(tapA&&(tapA.r!=p.r||tapA.c!=p.c))tapA=null;renderGrid()}}
+ if(fdrag){fdrag.r=Math.max(fdrag.r0,p.r);document.querySelectorAll('#grid td').forEach(t=>t.style.outline=+t.dataset.c==fdrag.c&&+t.dataset.r>fdrag.r0&&+t.dataset.r<=fdrag.r?'1px dashed #217346':'')}});
+const pend=e=>{if(lp){clearTimeout(lp.t);lp=null}if(drag){drag=null;renderAll()}if(fdrag){const f=fdrag;fdrag=null;if(f.r>f.r0)run('fill',`${L(f.c)}${f.r0}:${L(f.c)}${f.r}`);else renderGrid()}};
+document.addEventListener('pointerup',pend);document.addEventListener('pointercancel',e=>{if(lp){clearTimeout(lp.t);lp=null}if(drag){drag=null;renderAll()}if(fdrag){fdrag=null;renderGrid()}});
+$('#fh').addEventListener('pointerdown',e=>{e.stopPropagation();e.preventDefault();if(e.target.hasPointerCapture(e.pointerId))e.target.releasePointerCapture(e.pointerId);const a=norm(sel[sel.length-1]);fdrag={c:a.c2,r0:a.r2,r:a.r2}});
+/* 底部操作条（手机） */
+function mbar(){const b=$('#mbar');if(!b)return;if(!E||mode=='area'||$('#view2').style.display=='block'){b.style.display='none';return}b.style.display='';const f=$('#fb');const st=hintStep();
+ let t=f&&f.innerHTML?f.innerHTML:'';if(!E.done&&mode!='exam'&&st)t+=(t?'<br>':'')+'👉 '+st.t+(st.std?'（讲义未写，按 Excel 标准步骤）':'');if(E.done)t+=(t?'<br>':'')+'本题已结束，标准答案见上方题目卡片。';if(!t)t=mode=='exam'?'考试模式：无提示，按真实 Excel 操作。':'';
+ b.innerHTML=`<div id="mfb" class="${f&&f.innerHTML?f.className:''}">${t}</div><div class="mbb">${mode!='exam'?'<button class="btn gh" data-p="give">看答案</button>':''}<button class="btn gh" data-p="redo">↺ 重做</button><button class="btn" data-p="nextb" ${mode!='exam'&&!E.done?'disabled':''}>${mode=='exam'?(E.done?'下一题 →':'跳过 →'):'下一题 →'}</button>${mode=='exam'?'<button class="btn red" data-p="sub">交卷</button>':''}</div>`;
+ b.querySelectorAll('[data-p]').forEach(x=>x.onclick=()=>{const t=$('#'+x.dataset.p);if(t)t.click()})}
 $('#fh').addEventListener('dblclick',e=>{const a=norm(sel[sel.length-1]);let r=a.r2;while(r<NR&&val(r+1,a.c2-1)!=='')r++;if(r>a.r2)run('fill',`${L(a.c2)}${a.r2}:${L(a.c2)}${r}`)});
 $('#grid').addEventListener('contextmenu',e=>{e.preventDefault();const th=e.target.closest('th');const base=[xi('剪切'),xi('复制'),xi('粘贴选项'),{sep:1}];
  if(th&&th.dataset.row){const r=+th.dataset.row;if(!sel.some(a=>a.row&&inA(a,r,1)))sel=[{r1:r,r2:r,c1:1,c2:NC,row:true}];renderAll();menu(e.clientX,e.clientY,[...base,xi('插入'),xi('删除'),xi('清除内容'),{sep:1},{t:'设置单元格格式...',cmd:'ctx.format'},{t:'行高...',cmd:'ctx.rowh'},xi('隐藏'),xi('取消隐藏')]);return}
@@ -363,6 +439,6 @@ function aNext(){AS.pend.forEach(p=>p.w--);let k=AS.pend.findIndex(p=>p.w<=0),i,
  AS.n++;const q=AQ[i];$('#aqb').innerHTML=`<div style="font-size:12px;color:#888">第 ${AS.n} 题 ${re?'<span class="tag r">🔁 重考</span>':''}</div><h3>${q.q}</h3>${[...q.o].sort(()=>Math.random()-.5).map(o=>`<button class="opt">${o}</button>`).join('')}<div id="afb"></div>`;
  $('#aqb').querySelectorAll('.opt').forEach(bt=>bt.onclick=()=>{if($('#aqb .opt.ok'))return;const ok=bt.textContent==q.a;$('#aqb').querySelectorAll('.opt').forEach(z=>{if(z.textContent==q.a)z.classList.add('ok')});if(!ok){bt.classList.add('bad');AS.pend.push({i,w:3});PG.area[i]=(PG.area[i]||0)+1}else if(!re)AS.ok++;save();
   $('#afb').innerHTML=`<p>${ok?'✅ 正确':'❌ 错误，3 题后再考'}</p><button class="btn" id="an">下一题 →</button>`;$('#an').onclick=aNext})}
-stat();setMode('learn');
+stat();setMode('learn');if('serviceWorker'in navigator&&location.protocol=='https:')navigator.serviceWorker.register('sw.js').catch(()=>{});
 window.__xl={get E(){return E},QS,setMode};
 </script></body></html>

diff --git a/sw.js b/sw.js
@@ -1,0 +1,4 @@
+const C='xlops-v3',F=['./','index.html','manifest.json','icon-192.png','icon-512.png'];
+self.addEventListener('install',e=>{e.waitUntil(caches.open(C).then(c=>c.addAll(F)));self.skipWaiting()});
+self.addEventListener('activate',e=>{e.waitUntil(caches.keys().then(k=>Promise.all(k.filter(x=>x!=C).map(x=>caches.delete(x)))));self.clients.claim()});
+self.addEventListener('fetch',e=>{if(e.request.method!='GET')return;e.respondWith(fetch(e.request).then(r=>{const c=r.clone();caches.open(C).then(x=>x.put(e.request,c));return r}).catch(()=>caches.match(e.request,{ignoreSearch:true}).then(r=>r||caches.match('index.html'))))});
